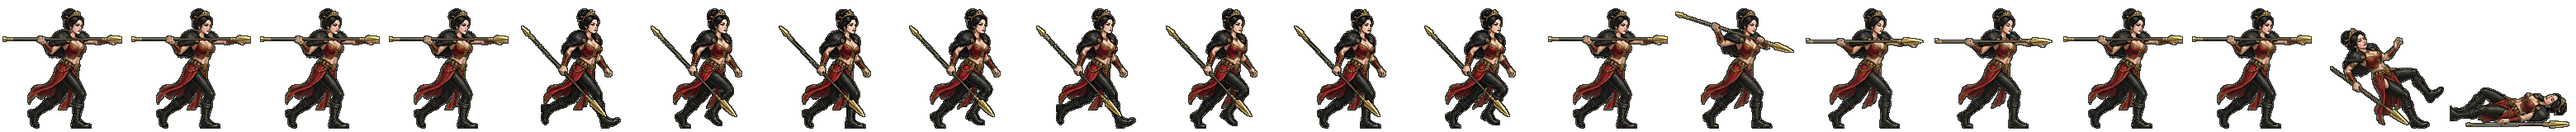
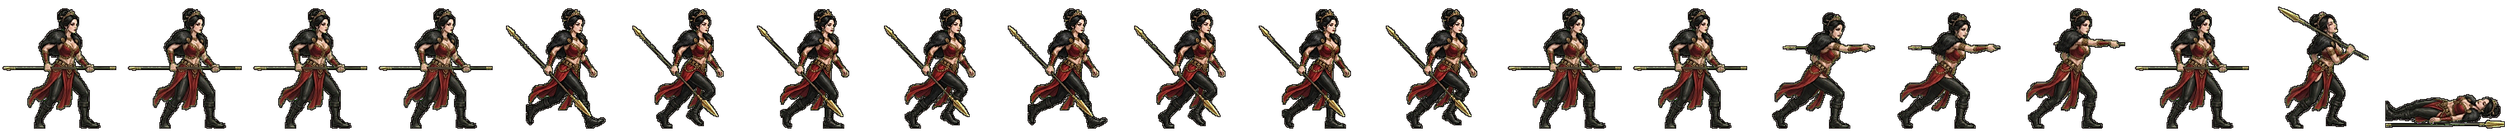
전투 띠 새로: soseono 동작 띠 다시 — 형이 구움 (굽기 꾸러미 · 검수 1·3번) (형 11-08)
Claude-Session: https://claude.ai/code/session_01TRiuNAG8xSjdmjCFpc8Rd5

diff --git a/src/ui/realm/battle-strikes.ts b/src/ui/realm/battle-strikes.ts
@@ -143,7 +143,7 @@ const CONTACT: Readonly<Record<string, [number, number, number]>> = {
   'gen-haebi': [14, 0.87, 0.73], 'gen-heo': [14, 0.94, 0.46], 'gen-hyeokgeose': [14, 0.83, 0.94],
   'gen-hyeopbo': [14, .93, .21], 'gen-malgalgi': [14, 0.88, 0.28], 'gen-mari': [14, .98, .47],
   'gen-oi': [14, .98, .48], 'gen-onjo': [14, 0.83, 0.93], 'gen-soebi': [14, 0.80, 0.95],
-  'gen-soseono': [14, 0.92, 0.31], 'gen-maryeo': [14, 0.91, 0.79], 'gen-horselord': [14, 0.89, 0.25], 'gen-olddaeso': [14, 0.93, 0.91], 'gen-maro': [14, 0.97, 0.49], 'gen-gwaeyu': [14, 0.98, 0.71], 'gen-daemusin': [14, 0.91, 0.38], 'gen-tahae': [14, 0.91, 0.74], 'gen-ocheongan': [14, 0.82, 0.49], 'gen-yusugan': [14, 0.95, 0.70], 'gen-odogan': [14, 0.96, 0.33], 'gen-pidogan': [14, 0.94, 0.75], 'gen-yeodogan': [14, 0.93, 0.57], 'gen-adogan': [14, 0.95, 0.41], 'gen-musoe': [14, 0.94, 0.39], 'gen-suro': [14, 0.82, 0.53], 'gen-waechief': [14, 0.95, 0.68], 'gen-hojin': [14, 0.97, 0.64], 'gen-jita': [14, 0.93, 0.29], 'gen-guryema': [14, 0.89, 0.28], 'gen-jibaekho': [14, 0.97, 0.33], 'gen-sobeol': [14, 0.95, 0.33], 'gen-alpyeong': [14, 0.95, 0.54], 'gen-hogong': [14, 0.98, 0.27], 'gen-geumbawi': [14, 0.91, 0.92], 'gen-keundol': [14, 0.90, 0.68], 'gen-jinha': [14, 0.76, 0.93], 'gen-duman': [14, 0.97, 0.39], 'gen-gomok': [14, 0.94, 0.57], 'gen-hneoul': [14, 0.92, 0.27], 'gen-tneoul': [14, 0.84, 0.57], 'gen-sdallae': [14, 0.89, 0.29], 'gen-yucheongan': [14, 0.97, 0.64], 'gen-sincheongan': [14, 0.91, 0.71], 'gen-singwigan': [14, 0.98, 0.21], 'gen-mdallae': [14, 0.98, 0.29], 'gen-mulbeom': [14, 0.95, 0.39], 'gen-beomi': [14, 0.88, 0.43], 'gen-danbi': [14, 0.90, 0.30], 'gen-mulsae': [14, 0.92, 0.46], 'gen-darae': [14, 0.89, 0.29], 'gen-mir': [14, 0.91, 0.33], 'gen-wan': [14, 0.94, 0.30], 'gen-gom': [14, 0.94, 0.74], 'gen-sagong': [14, 0.79, 0.96], 'gen-halla': [14, 0.86, 0.46], 'gen-areum': [14, 0.86, 0.65], 'gen-dokmudeom': [14, 0.95, 0.28], 'gen-beom': [14, 0.98, 0.28], 'gen-baram': [14, 0.96, 0.24], 'gen-goeun': [14, 0.95, 0.66], 'gen-byeol': [14, 0.76, 0.96], 'gen-sinneoul': [14, 0.95, 0.33], 'gen-haesol': [14, 0.95, 0.39], 'gen-odi': [14, 0.95, 0.37], 'gen-irang': [14, 0.86, 0.30], 'gen-dalli': [14, 0.89, 0.32], 'gen-bakdal': [14, 0.94, 0.27], 'gen-noeul': [14, 0.88, 0.27], 'gen-maehwa': [14, 0.90, 0.31], 'gen-gaon': [14, 0.98, 0.48], 'gen-eomni': [14, 0.96, 0.42], 'gen-nuri': [14, 0.98, 0.42], 'gen-bira': [14, 0.88, 0.42], 'gen-gureum': [14, 0.98, 0.42],
+  'gen-soseono': [14, 0.93, 0.36], 'gen-maryeo': [14, 0.91, 0.79], 'gen-horselord': [14, 0.89, 0.25], 'gen-olddaeso': [14, 0.93, 0.91], 'gen-maro': [14, 0.97, 0.49], 'gen-gwaeyu': [14, 0.98, 0.71], 'gen-daemusin': [14, 0.91, 0.38], 'gen-tahae': [14, 0.91, 0.74], 'gen-ocheongan': [14, 0.82, 0.49], 'gen-yusugan': [14, 0.95, 0.70], 'gen-odogan': [14, 0.96, 0.33], 'gen-pidogan': [14, 0.94, 0.75], 'gen-yeodogan': [14, 0.93, 0.57], 'gen-adogan': [14, 0.95, 0.41], 'gen-musoe': [14, 0.94, 0.39], 'gen-suro': [14, 0.82, 0.53], 'gen-waechief': [14, 0.95, 0.68], 'gen-hojin': [14, 0.97, 0.64], 'gen-jita': [14, 0.93, 0.29], 'gen-guryema': [14, 0.89, 0.28], 'gen-jibaekho': [14, 0.97, 0.33], 'gen-sobeol': [14, 0.95, 0.33], 'gen-alpyeong': [14, 0.95, 0.54], 'gen-hogong': [14, 0.98, 0.27], 'gen-geumbawi': [14, 0.91, 0.92], 'gen-keundol': [14, 0.90, 0.68], 'gen-jinha': [14, 0.76, 0.93], 'gen-duman': [14, 0.97, 0.39], 'gen-gomok': [14, 0.94, 0.57], 'gen-hneoul': [14, 0.92, 0.27], 'gen-tneoul': [14, 0.84, 0.57], 'gen-sdallae': [14, 0.89, 0.29], 'gen-yucheongan': [14, 0.97, 0.64], 'gen-sincheongan': [14, 0.91, 0.71], 'gen-singwigan': [14, 0.98, 0.21], 'gen-mdallae': [14, 0.98, 0.29], 'gen-mulbeom': [14, 0.95, 0.39], 'gen-beomi': [14, 0.88, 0.43], 'gen-danbi': [14, 0.90, 0.30], 'gen-mulsae': [14, 0.92, 0.46], 'gen-darae': [14, 0.89, 0.29], 'gen-mir': [14, 0.91, 0.33], 'gen-wan': [14, 0.94, 0.30], 'gen-gom': [14, 0.94, 0.74], 'gen-sagong': [14, 0.79, 0.96], 'gen-halla': [14, 0.86, 0.46], 'gen-areum': [14, 0.86, 0.65], 'gen-dokmudeom': [14, 0.95, 0.28], 'gen-beom': [14, 0.98, 0.28], 'gen-baram': [14, 0.96, 0.24], 'gen-goeun': [14, 0.95, 0.66], 'gen-byeol': [14, 0.76, 0.96], 'gen-sinneoul': [14, 0.95, 0.33], 'gen-haesol': [14, 0.95, 0.39], 'gen-odi': [14, 0.95, 0.37], 'gen-irang': [14, 0.86, 0.30], 'gen-dalli': [14, 0.89, 0.32], 'gen-bakdal': [14, 0.94, 0.27], 'gen-noeul': [14, 0.88, 0.27], 'gen-maehwa': [14, 0.90, 0.31], 'gen-gaon': [14, 0.98, 0.48], 'gen-eomni': [14, 0.96, 0.42], 'gen-nuri': [14, 0.98, 0.42], 'gen-bira': [14, 0.88, 0.42], 'gen-gureum': [14, 0.98, 0.42],
   'gen-biryu': [14, 0.90, 0.35], 'gen-geumha': [14, 0.94, 0.61], 'gen-geota': [14, 0.86, 0.47], 'gen-soebo': [14, 0.87, 0.57],
   'gen-gaennae': [14, 249 / 264, 47 / 160],
   'gen-budeul': [14, 266 / 280, 51 / 160],

diff --git a/src/realm/data/art.ts b/src/realm/data/art.ts
@@ -476,7 +476,7 @@ export const GEN_ANIM: Readonly<Partial<Record<string, { ar: number; body: numbe
   // 제 그림 (GEN_OWN) — 글 주문만으로 받은 장수 (docs/realm/GENERAL-SPRITES.md)
   jumong: { ar: 140 / 160, body: 0.900, bow: true }, // 11-08 초상대로 다시 (형: 「투구 쓰고 원본과 다르다」 · 제미나이 걷기 4×2 + 동작 4×2 → 20컷 · assets_src/realm/gemini/generals2)
   onjo: { ar: 157 / 160, body: 0.900 }, // 11-08 초상대로 다시 (형: 「투구 쓰고 원본과 다르다」 · 제미나이 걷기 4×2 + 동작 4×2 → 20컷 · assets_src/realm/gemini/generals2)
-  soseono: { ar: 156 / 160, body: 0.900 }, // 11-08 초상대로 다시 (형: 「투구 쓰고 원본과 다르다」 · 제미나이 걷기 4×2 + 동작 4×2 → 20컷 · assets_src/realm/gemini/generals2) · 전투 옷은 더 드러나게 (형 11-08)
+  soseono: { ar: 152 / 160, body: 0.900 }, // 11-08 초상대로 다시 (형: 「투구 쓰고 원본과 다르다」 · 제미나이 걷기 4×2 + 동작 4×2 → 20컷 · assets_src/realm/gemini/generals2) · 11-08 처음 · soseono 동작 띠 다시 — 형이 구움 (굽기 꾸러미 · 검수 1·3번)
   aryeong: { ar: 157 / 160, body: 0.900 }, // 11-08 초상대로 다시 (형: 「투구 쓰고 원본과 다르다」 · 제미나이 걷기 4×2 + 동작 4×2 → 20컷 · assets_src/realm/gemini/generals2) · 전투 옷은 더 드러나게 (형 11-08)
   haedal: { ar: 149 / 160, body: 0.900, bow: true }, // 11-08 초상대로 다시 (형: 「투구 쓰고 원본과 다르다」 · 제미나이 걷기 4×2 + 동작 4×2 → 20컷 · assets_src/realm/gemini/generals2) · 전투 옷은 더 드러나게 (형 11-08)
   songbi: { ar: 150 / 160, body: 0.900, bow: true }, // 11-08 초상대로 다시 (형: 「투구 쓰고 원본과 다르다」 · 제미나이 걷기 4×2 + 동작 4×2 → 20컷 · assets_src/realm/gemini/generals2) · 전투 옷은 더 드러나게 (형 11-08)
